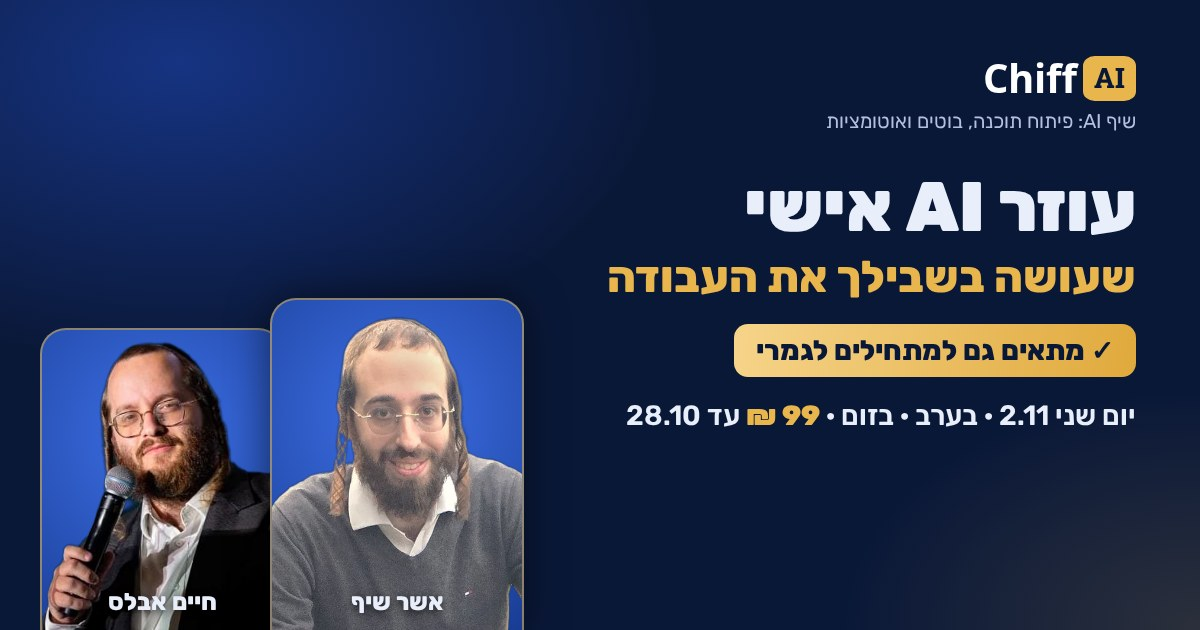
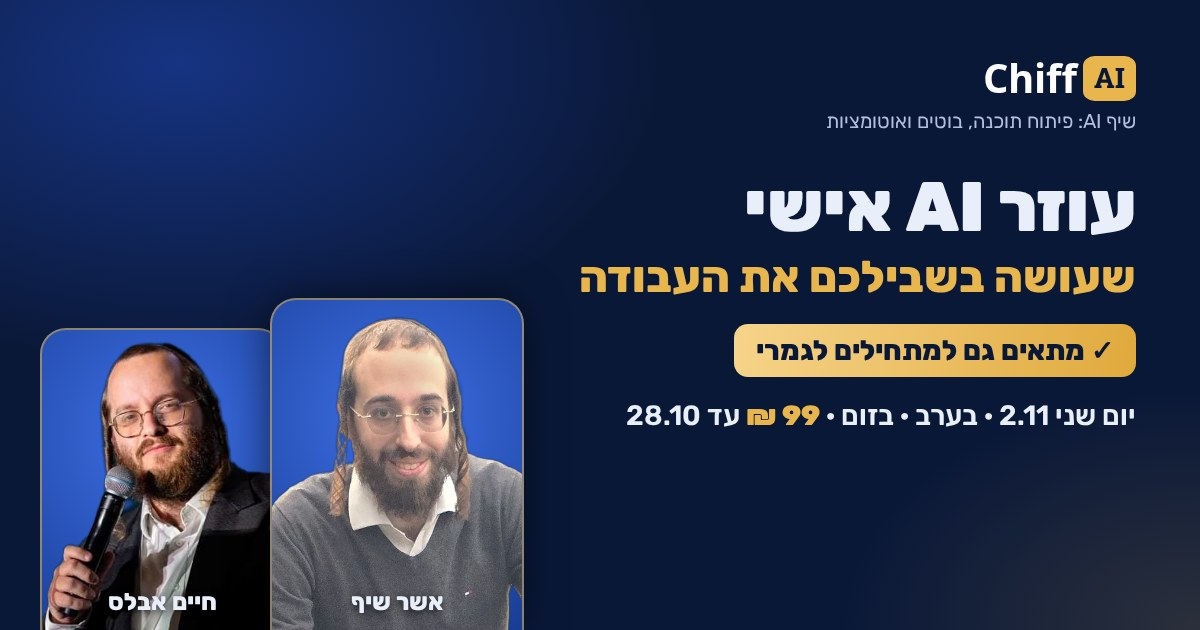
Landing page: review fixes (plural copy, verified tool cards, value line, shorter mobile)

Changed region(s): [[0.4625, 0.4222, 0.74, 0.4825]]

diff --git a/index.html b/index.html
@@ -3,13 +3,13 @@
 <head>
 <meta charset="utf-8">
 <meta name="viewport" content="width=device-width, initial-scale=1, viewport-fit=cover">
-<title>סדנת AI: עוזר אישי שעושה בשבילך את העבודה | שיף AI</title>
+<title>סדנת AI: עוזר AI אישי שעושה בשבילכם את העבודה | שיף AI</title>
 <meta name="description" content="סדנה חיה בזום, יום שני 2.11 בערב, שעתיים. מתאימה למתחילים לגמרי, הכל צעד אחרי צעד. Grok Bot, Instinct ו-Dots. 99 ₪ במחיר מוקדם עד רביעי 28.10.">
 <meta name="theme-color" content="#0a1838">
 <meta property="og:type" content="website">
 <meta property="og:locale" content="he_IL">
 <meta property="og:site_name" content="שיף AI">
-<meta property="og:title" content="סדנת AI: עוזר אישי שעושה בשבילך את העבודה">
+<meta property="og:title" content="סדנת AI: עוזר AI אישי שעושה בשבילכם את העבודה">
 <meta property="og:description" content="יום שני 2.11 בערב, בזום, שעתיים. מתאים למתחילים לגמרי. 99 ₪ במחיר מוקדם עד רביעי 28.10.">
 <meta property="og:image" content="https://captain-automation.github.io/chiff-ai-workshop-2-11/assets/og.jpg">
 <meta property="og:image:width" content="1200">
@@ -146,7 +146,14 @@ details p{margin:0;padding:0 18px 16px;color:var(--mut)}
 .secure{font-size:14px;color:var(--mut);margin-top:12px}
 footer{padding:26px 0 100px;text-align:center;color:#7f8cb0;font-size:13px;border-top:1px solid rgba(255,255,255,.06)}
 
-/* sticky cta (mobile) */
+.toolsline{margin:-8px 0 18px;font-weight:700;font-size:17px;color:var(--gold2);letter-spacing:.01em}
+.value{font-size:15px;font-weight:600;color:var(--txt);margin:0 0 14px;padding:10px 14px;border-radius:12px;background:rgba(232,182,76,.08);border:1px solid var(--line);line-height:1.5}
+.value .nw{white-space:nowrap}
+.pay .value{margin:16px auto 0;max-width:410px}
+.steps li{padding:13px 62px 13px 16px;font-weight:700;font-size:17px;min-height:58px;display:flex;align-items:center}
+.steps li:before{top:50%;transform:translateY(-50%)}
+.pay-frame iframe{height:972px;margin-top:-72px}
+/* sticky cta */
 .sticky{position:fixed;left:12px;right:12px;bottom:calc(12px + env(safe-area-inset-bottom));z-index:20;transform:translateY(140%);transition:transform .25s}
 .sticky.on{transform:none}
 .sticky .btn{width:100%;box-shadow:0 14px 34px -8px rgba(0,0,0,.7)}
@@ -163,11 +170,12 @@ footer{padding:26px 0 100px;text-align:center;color:#7f8cb0;font-size:13px;borde
  .g3{grid-template-columns:repeat(3,1fr)}
  .g2{grid-template-columns:1fr 1fr}
  .steps{grid-template-columns:1fr 1fr}
- .det{grid-template-columns:repeat(5,1fr)}
+ .det{grid-template-columns:repeat(4,1fr)}
  .det .wide{grid-column:auto}
  .host{grid-template-columns:150px 1fr}
  .host .ph{width:150px;height:174px}
  .sticky{display:none}
+ .hero .value{display:table}
  .faq-wrap{max-width:760px}
 }
 </style>
@@ -183,12 +191,14 @@ footer{padding:26px 0 100px;text-align:center;color:#7f8cb0;font-size:13px;borde
   <div class="hero-grid">
    <div>
     <span class="eyebrow"><i></i>סדנת AI חיה בזום</span>
-    <h1>עוזר AI אישי <span class="g">שעושה בשבילך את העבודה</span></h1>
-    <p class="sub">סדנה של שעתיים <b>למתחילים לגמרי</b>. נראה בשידור חי איך עוזרים אישיים כמו <span class="ltr">Grok Bot</span>, <span class="ltr">Instinct</span> ו-<span class="ltr">Dots</span> מכינים דוחות, עונים למיילים ומסדרים משימות, ונסביר כל דבר <b>צעד&nbsp;אחרי&nbsp;צעד</b>.</p>
+    <h1>עוזר AI אישי <span class="g">שעושה בשבילכם את העבודה</span></h1>
+    <p class="sub">תראו בשידור חי עוזר AI שמכין דוחות, עונה למיילים ומסדר משימות. שעתיים, <b>למתחילים לגמרי</b>, <b>צעד&nbsp;אחרי&nbsp;צעד</b>.</p>
+    <p class="toolsline"><span class="ltr">Grok Bot</span> · <span class="ltr">Instinct</span> · <span class="ltr">Dots</span></p>
     <ul class="facts">
      <li>📅 יום שני 2.11, בערב</li><li>💻 בזום · שעתיים</li>
     </ul>
     <div class="price-line"><span class="p">99 <small>₪</small></span><span class="d">מחיר מוקדם, <b>רק עד רביעי 28.10</b></span></div>
+    <div class="value"><span class="nw">שעתיים חיות</span> · <span class="nw">הדגמות מהעבודה האמיתית</span> · <span class="nw">כללי בטיחות</span> · <span class="nw">רעיונות למחר</span></div>
     <a class="btn" href="#pay" data-cta>להרשמה 👈</a>
     <div class="hosts-mini">
      <span class="av"><img src="assets/asher.webp" alt="" width="44" height="44"><img src="assets/chaim.webp" alt="" width="44" height="44"></span>
@@ -199,9 +209,9 @@ footer{padding:26px 0 100px;text-align:center;color:#7f8cb0;font-size:13px;borde
     <div class="chat">
      <div class="m me">תכין לי טיוטת תשובה לכל מייל מלקוח מהיום. אל תשלח כלום.</div>
      <div class="who">העוזר האישי</div>
-     <div class="m ai">הכנתי <b>6 טיוטות</b> ✅<br>הן מחכות לאישור שלך. שולח רק אחרי שתאשר.</div>
+     <div class="m ai">הכנתי <b>6 טיוטות</b> ✅<br>הן מחכות לאישור. שום דבר לא נשלח בלי אישור.</div>
      <div class="m me">ותשלח לי כל בוקר סיכום של מה מחכה לי היום.</div>
-     <div class="m ai">סגור. מחר ב-7:00 הדוח הראשון אצלך במייל 📩</div>
+     <div class="m ai">סגור. מחר ב-7:00 הדוח הראשון במייל 📩</div>
      <div class="note">ככה זה נראה. את זה תלמדו לעשות בסדנה.</div>
     </div>
    </div>
@@ -217,7 +227,7 @@ footer{padding:26px 0 100px;text-align:center;color:#7f8cb0;font-size:13px;borde
   <div class="grid g3">
    <div class="card"><span class="em">💼</span><h3>בעלי עסקים ועצמאים</h3><p>שרוצים לחסוך שעות על מיילים, דוחות וסידורים.</p></div>
    <div class="card"><span class="em">🗂</span><h3>מנהלי משרד ועובדים</h3><p>שרוצים שהמשימות החוזרות יקרו לבד.</p></div>
-   <div class="card"><span class="em">🏠</span><h3>כל מי שסקרן</h3><p>שרוצה להבין מה ה-AI כבר יודע לעשות בשבילו, גם בבית.</p></div>
+   <div class="card"><span class="em">🏠</span><h3>סקרנים</h3><p>שרוצים להבין מה ה-AI כבר יודע לעשות בשבילכם, גם בבית.</p></div>
   </div>
  </div>
 </section>
@@ -227,12 +237,12 @@ footer{padding:26px 0 100px;text-align:center;color:#7f8cb0;font-size:13px;borde
   <h2>מה <span class="g">תלמדו?</span></h2>
   <p class="lead">בלי תיאוריות. הכל מוצג על המסך, בשידור חי.</p>
   <ol class="steps">
-   <li><b>מה זה עוזר AI אישי</b><span>ובמה הוא שונה מצ'אט רגיל שרק עונה.</span></li>
-   <li><b>איך נותנים לו משימה</b><span>במילים פשוטות, והוא מבצע אותה עד הסוף.</span></li>
-   <li><b>הדגמות חיות מהעבודה האמיתית</b><span>דוח שמגיע לבד כל בוקר, טיוטות מיילים ללקוחות, קבלות שהופכות לטבלה.</span></li>
-   <li><b>איזה כלי מתאים לכם</b><span>מה כל אחד יודע, כמה הוא עולה ומה זמין בישראל.</span></li>
-   <li><b>כללי בטיחות</b><span>איך לוודא שה-AI לא שולח ולא משלם בלי אישור שלכם.</span></li>
-   <li><b>מה להפעיל כבר מחר</b><span>רעיונות מעשיים לעסק ולבית.</span></li>
+   <li>מה זה עוזר AI אישי</li>
+   <li>איך נותנים לו משימה</li>
+   <li>הדגמות חיות מהעבודה</li>
+   <li>איזה כלי מתאים לכם</li>
+   <li>כללי בטיחות ואישורים</li>
+   <li>מה להפעיל כבר מחר</li>
   </ol>
  </div>
 </section>
@@ -242,10 +252,7 @@ footer{padding:26px 0 100px;text-align:center;color:#7f8cb0;font-size:13px;borde
   <h2>הכלים <span class="g">שנכיר</span></h2>
   <p class="lead">העוזרים האישיים החדשים, ומה כל אחד עושה בשבילכם.</p>
   <div class="grid g2">
-   <div class="card tool"><div class="nm">Grok Bot <i></i></div><span class="tg">צוות בוטים</span><p>עוזרים עם מחשב משלהם. שולחים הודעה, והם מבצעים את העבודה עד הסוף, גם כשהמחשב שלכם סגור.</p></div>
-   <div class="card tool"><div class="nm">Instinct <i></i></div><span class="tg">עוזר בהודעה</span><p>עוזר שכותבים לו בהודעה, והוא עושה בשבילכם.</p></div>
-   <div class="card tool"><div class="nm">Dots <i></i></div><span class="tg">של OpenAI</span><p>עוזר בתוך ChatGPT שמקבל אחריות על משימה ועוקב אחריה בשבילכם.</p></div>
-   <div class="card tool lock"><span class="lk">🤫</span><div><h3>ועוד הפתעה אחת</h3><p>נחשוף אותה רק בסדנה.</p></div></div>
+   <div class="card tool"><div class="nm">Grok Bot <i></i></div><span class="tg">צוות בוטים</span><p>בוטים עם מחשב משלהם בענן. שולחים הודעה, והם מבצעים עד הסוף, גם כשהמחשב שלכם סגור.</p></div>
   </div>
  </div>
 </section>
@@ -276,7 +283,6 @@ footer{padding:26px 0 100px;text-align:center;color:#7f8cb0;font-size:13px;borde
    <div class="card"><div class="k">שעה</div><div class="v">בערב</div></div>
    <div class="card"><div class="k">איפה</div><div class="v">בזום</div></div>
    <div class="card"><div class="k">כמה זמן</div><div class="v">שעתיים</div></div>
-   <div class="card wide"><div class="k">מחיר מוקדם, עד רביעי 28.10</div><div class="v gold">99 ₪</div></div>
   </div>
  </div>
 </section>
@@ -299,7 +305,8 @@ footer{padding:26px 0 100px;text-align:center;color:#7f8cb0;font-size:13px;borde
   <div class="pay-box">
    <h2>הרשמה <span class="g">ותשלום</span></h2>
    <div class="price-line"><span class="p">99 <small>₪</small></span><span class="d">מחיר מוקדם, <b>עד רביעי 28.10</b></span></div>
-   <p class="lead" style="margin-bottom:0">ממלאים פרטים ומשלמים כאן, בלי לצאת מהדף.</p>
+   <div class="value"><span class="nw">שעתיים חיות</span> · <span class="nw">הדגמות מהעבודה האמיתית</span> · <span class="nw">כללי בטיחות</span> · <span class="nw">רעיונות למחר</span></div>
+   <p class="lead" style="margin:10px 0 0">ממלאים פרטים ומשלמים כאן, בלי לצאת מהדף.</p>
    <div class="pay-frame">
     <div class="ld">טוען את טופס התשלום...</div>
     <iframe id="payFrame" title="טופס תשלום מאובטח" loading="lazy" allow="payment" referrerpolicy="strict-origin-when-cross-origin"></iframe>
